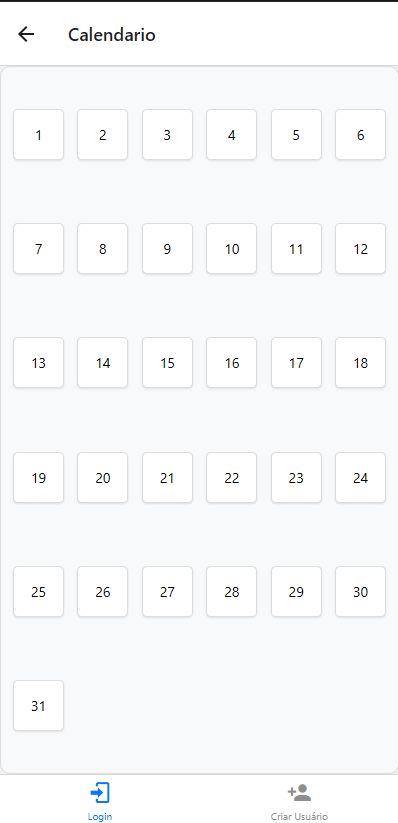
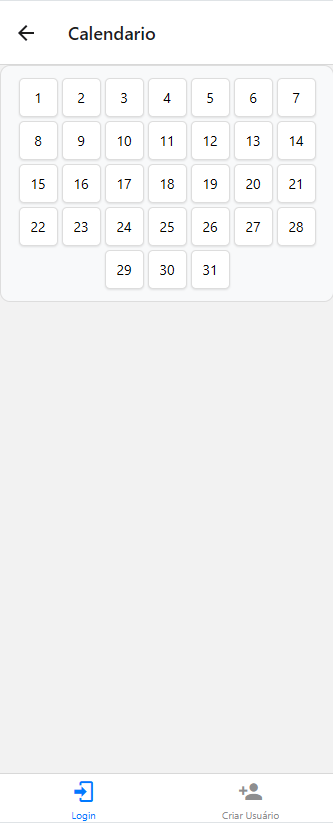
Ajuste do calendário para ficar com 7 dias por linha e alteração no README.

diff --git a/App.js b/App.js
@@ -629,10 +629,10 @@ const styles = StyleSheet.create({
     margin: '0 auto',
   },
   CalendarioContainer: {
-    flex: 1,
+    // flex: 1,
     flexDirection: 'row',
     flexWrap: 'wrap',
-    justifyContent: 'space-between',
+    justifyContent: 'center',
     alignItems: 'center',
     padding: 10, 
     backgroundColor: '#f8f9fa',
@@ -641,7 +641,7 @@ const styles = StyleSheet.create({
     borderColor: '#ddd',
   },
   CalendarioDia: {
-    width: '13.5%',
+    width: '12.5%',
     aspectRatio: 1,
     justifyContent: 'center',
     alignItems: 'center',

diff --git a/README.md b/README.md
@@ -66,5 +66,5 @@ Agradeço aos professores dessa disciplina que durante todo o semestre nos ensir
 
 ## Autor
 
-Nathan Gabriel da Fonseca Leite
+Nathan Gabriel da Fonseca Leite <br>
 Github: https://github.com/NathanGbl
